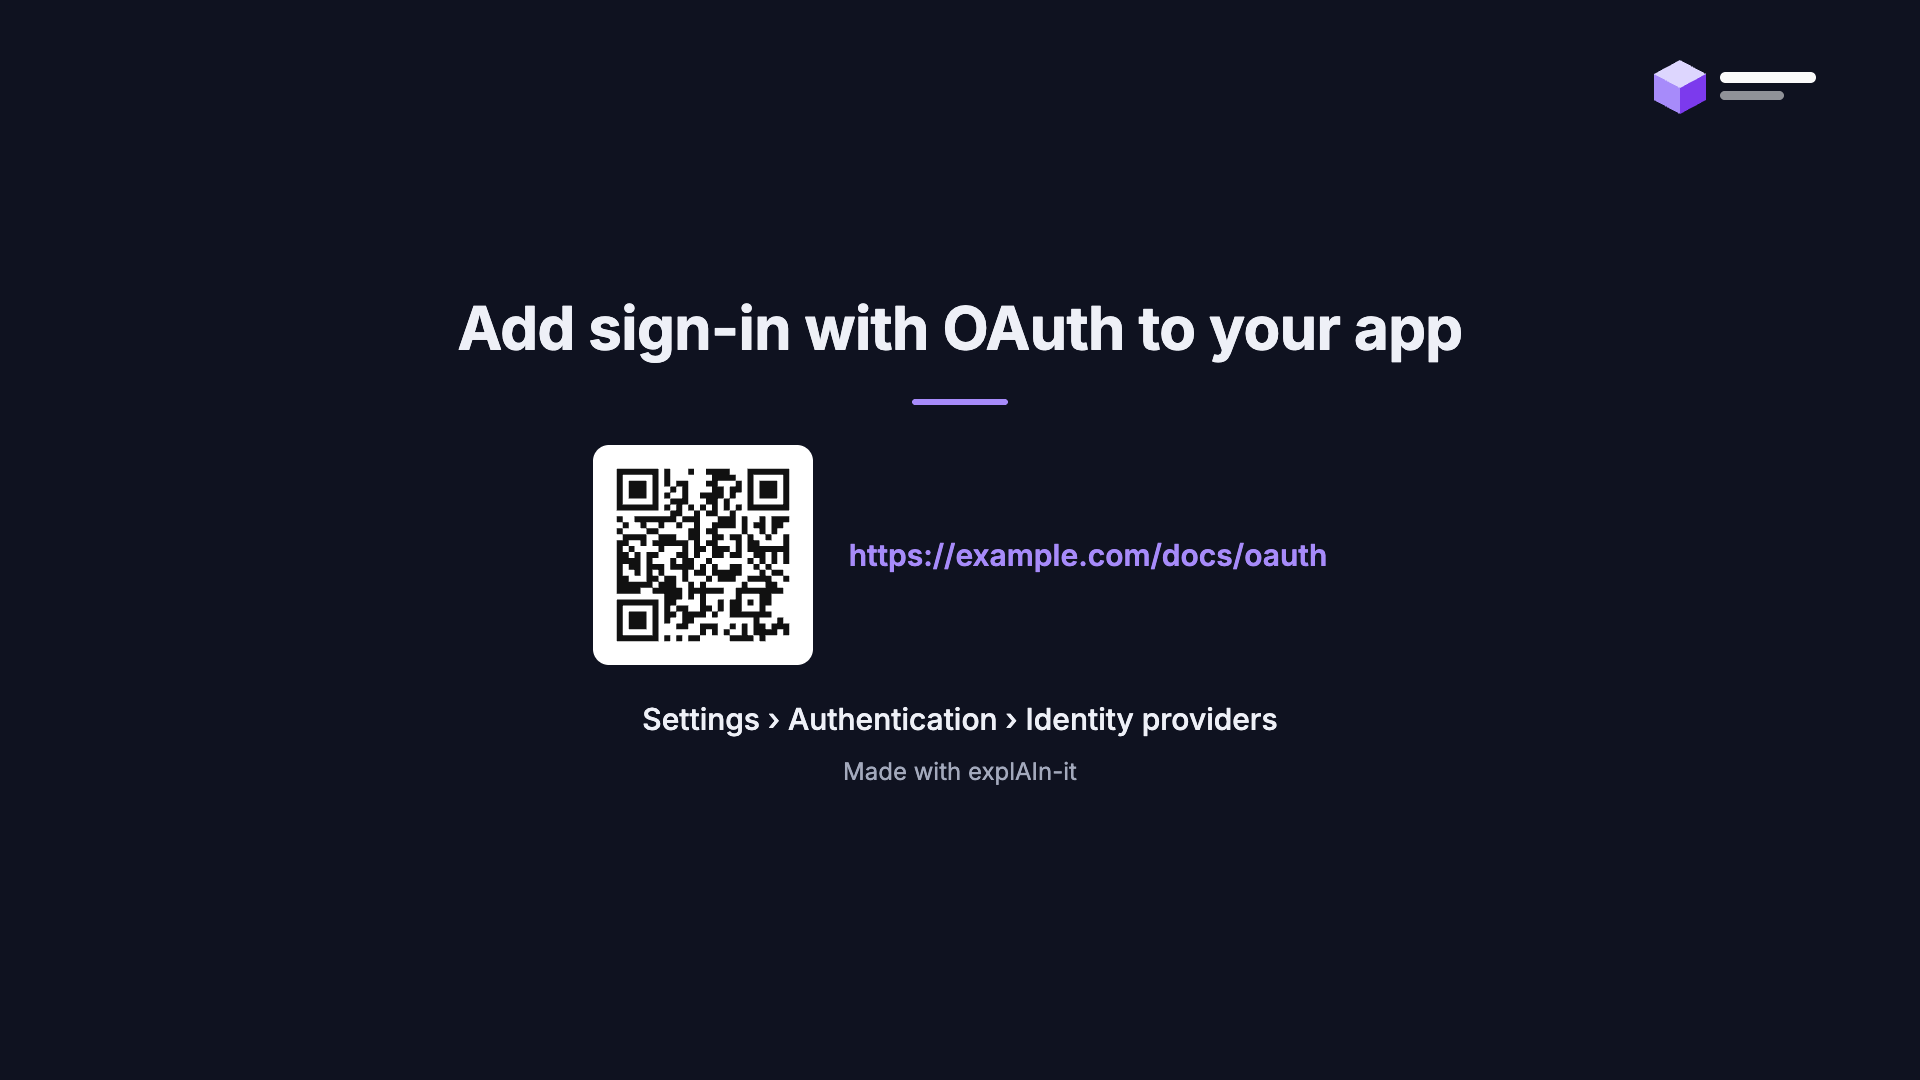
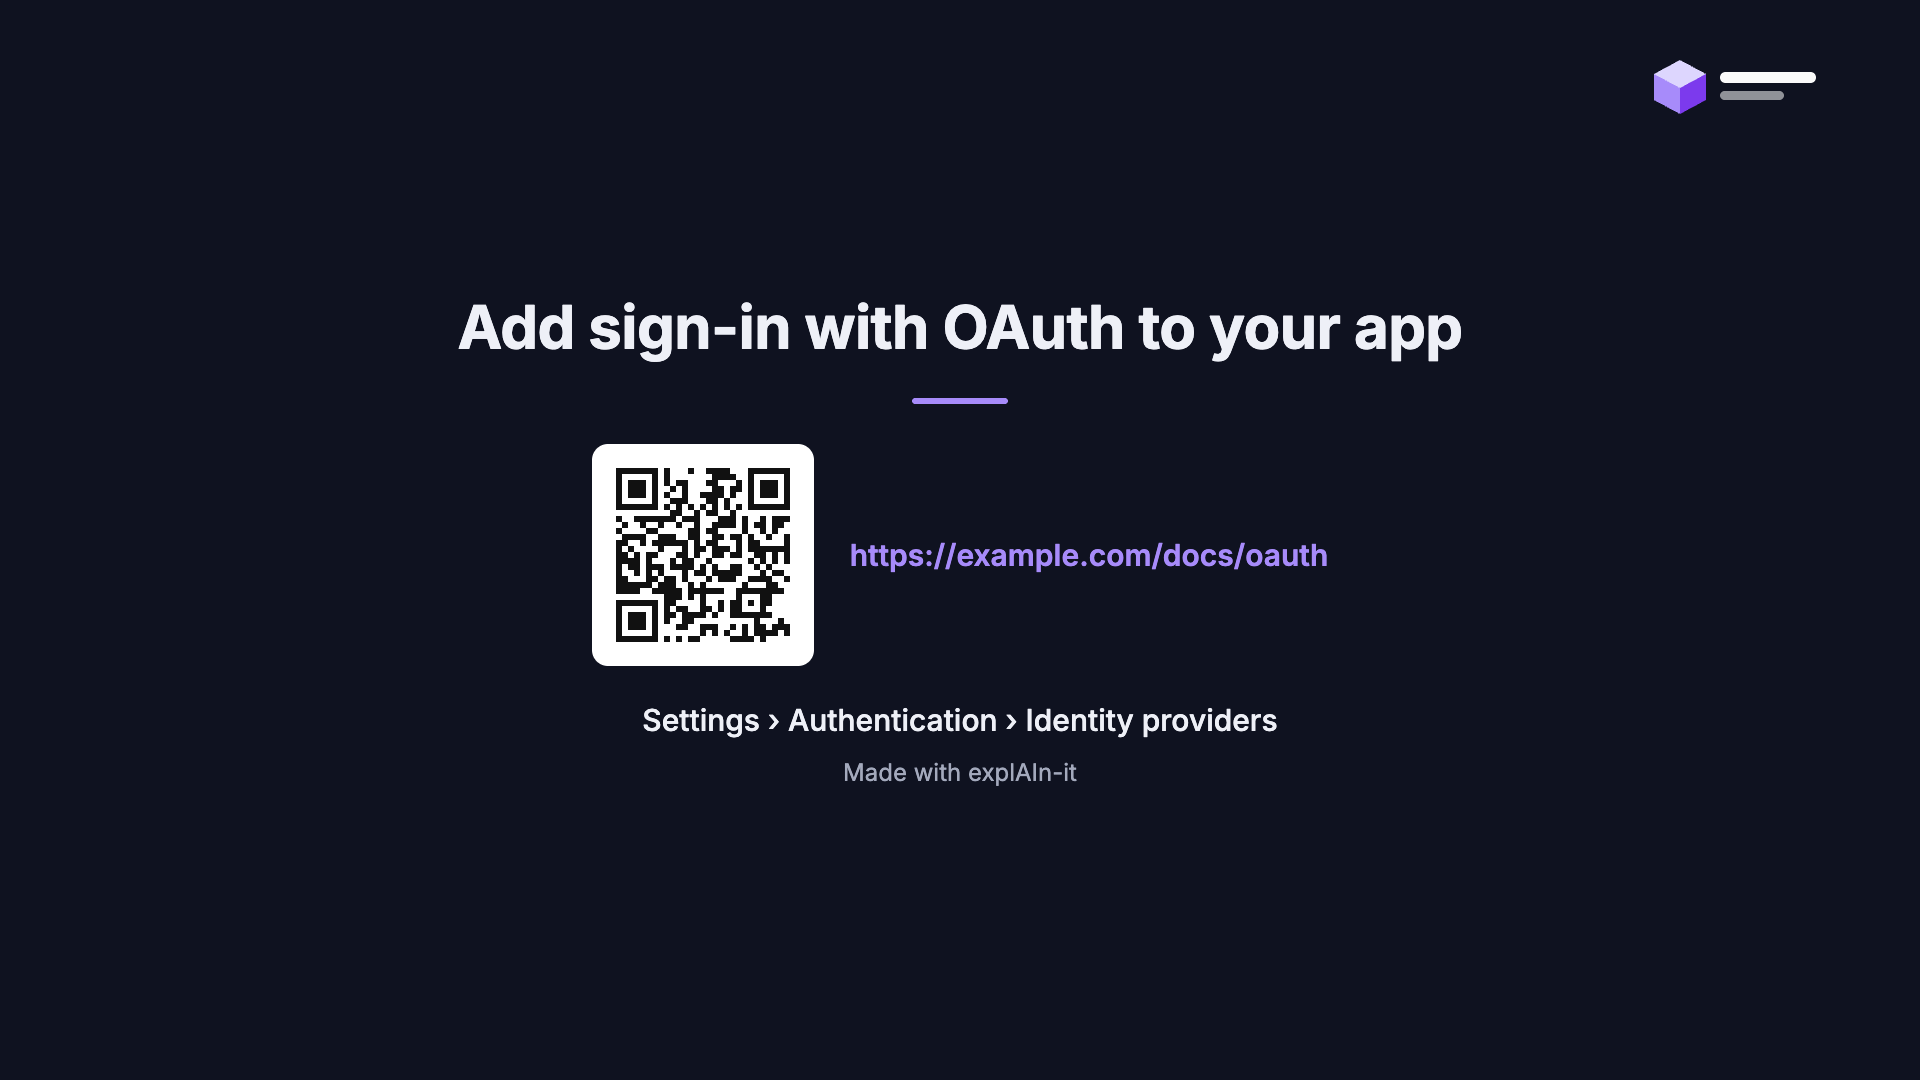
fix(engine): review fixes for end card and ending [1.12]
The opening title card's layer no longer takes the heading's class, which
had pushed it to the top left. The title card closing the video follows
the end card's logo rule. Links are encoded as UTF-8, control characters
are rejected, and the QR code grows with the link so a module stays at
least 4 px at 720p; a 200-character non-ASCII link scans from a 720p
render. MIDDLE_LOGO_SIZE sits beside LOGO_SIZE.

diff --git a/src/engine/cards/html.ts b/src/engine/cards/html.ts
@@ -1,9 +1,9 @@
 import type { EndCard, Logo, TitleCard } from "../../schema/config.ts";
 import { type CardPlan, cardTarget } from "../beats/build.ts";
-import { logoBox } from "../overlays/regions.ts";
+import { logoBox, MIDDLE_LOGO_SIZE } from "../overlays/regions.ts";
 import type { State } from "../timeline.ts";
-import { qrModules, qrPath } from "./qr.ts";
-import { type LogoPlace, logoShowsOn } from "./show.ts";
+import { QR_QUIET, qrModules, qrPath, qrPixels } from "./qr.ts";
+import { logoPlaceOf, logoShowsOn } from "./show.ts";
 
 /** The logo to draw: the image for the current mode, and where and when it shows. */
 export type LogoDrawing = {
@@ -15,11 +15,6 @@ export type LogoDrawing = {
 /** Poses a layer from the timeline. */
 export type Poser = (state: State) => void;
 
-/** The logo in the middle of the closing card is fitted inside this box (SPEC, Logo). */
-export const MIDDLE_LOGO_SIZE = { width: 480, height: 160 } as const;
-
-/** The QR code's quiet zone, in modules: the light margin a reader needs around it. */
-const QR_QUIET = 4;
 const SVG_NS = "http://www.w3.org/2000/svg";
 
 const element = <K extends keyof HTMLElementTagNameMap>(
@@ -70,11 +65,11 @@ const cardLayer = (
   id: CardPlan["id"],
   body: HTMLElement,
   logo: LogoDrawing | undefined,
-  place: LogoPlace,
 ): Poser => {
-  const layer = element("div", `card-layer card-${id}`);
+  const layer = element("div", `card-layer card-layer-${id}`);
   layer.append(body);
-  if (logo && logoShowsOn(logo.show, place)) layer.append(logoImage(logo));
+  if (logo && id !== "logo" && logoShowsOn(logo.show, logoPlaceOf(id)))
+    layer.append(logoImage(logo));
   frame.append(layer);
   return fadeLayer(layer, cardTarget(id));
 };
@@ -93,7 +88,7 @@ export const renderTitleCard = (
   body.append(element("h1", "card-title", card.title), element("div", "card-rule"));
   if (card.description !== undefined)
     body.append(element("p", "card-description", card.description));
-  return cardLayer(frame, id, body, logo, "title");
+  return cardLayer(frame, id, body, logo);
 };
 
 /** The link as a QR code: dark modules on a light tile in both modes, as readers expect. */
@@ -104,6 +99,8 @@ const qrCode = (link: string): SVGSVGElement => {
   svg.setAttribute("class", "card-qr");
   svg.setAttribute("viewBox", `${-QR_QUIET} ${-QR_QUIET} ${size} ${size}`);
   svg.setAttribute("shape-rendering", "crispEdges");
+  const px = `${qrPixels(modules.length)}px`;
+  Object.assign(svg.style, { width: px, height: px });
   const tile = document.createElementNS(SVG_NS, "rect");
   tile.setAttribute("class", "card-qr-tile");
   for (const [name, value] of Object.entries({
@@ -142,7 +139,7 @@ export const renderEndCard = (
   }
   if (card.where !== undefined) body.append(element("p", "card-where", card.where));
   if (card.credit !== undefined) body.append(element("p", "card-credit", card.credit));
-  return cardLayer(frame, "end", body, logo, "end");
+  return cardLayer(frame, "end", body, logo);
 };
 
 /** Draws the closing card made of the logo alone, in the middle, larger than in its corner. */
@@ -152,7 +149,7 @@ export const renderLogoCard = (frame: HTMLElement, src: string): Poser => {
     width: `${MIDDLE_LOGO_SIZE.width}px`,
     height: `${MIDDLE_LOGO_SIZE.height}px`,
   });
-  const layer = element("div", "card-layer card-logo");
+  const layer = element("div", "card-layer card-layer-logo");
   layer.append(img);
   frame.append(layer);
   return fadeLayer(layer, cardTarget("logo"));

diff --git a/src/engine/cards/qr.test.ts b/src/engine/cards/qr.test.ts
@@ -1,6 +1,6 @@
 import jsqr from "jsqr";
 import { describe, expect, it } from "vitest";
-import { qrModules, qrPath } from "./qr.ts";
+import { QR_QUIET, qrModules, qrPath, qrPixels } from "./qr.ts";
 
 /** Draws the modules as black squares on white, with the 4-module quiet zone a reader needs. */
 const pixels = (modules: readonly (readonly boolean[])[], scale = 4) => {
@@ -34,6 +34,7 @@ describe("qrModules", () => {
     for (const link of [
       "https://example.com",
       "https://example.com/docs/oauth?from=video#sign-in",
+      "https://example.com/über/straße",
       `https://example.com/${"long-path/".repeat(18)}`,
     ]) {
       const modules = qrModules(link);
@@ -47,6 +48,21 @@ describe("qrModules", () => {
     const modules = qrModules("https://example.com");
     expect(modules.every((row) => row.length === modules.length)).toBe(true);
     expect(qrModules("https://example.com")).toEqual(modules);
+  });
+});
+
+describe("qrPixels", () => {
+  it("keeps every module at least 4 px at 720p, even for the longest link", () => {
+    const longest = `https://example.com/${"x".repeat(200 - 20)}`;
+    for (const link of ["https://example.com", longest]) {
+      const modules = qrModules(link);
+      const perModuleAt720p =
+        (qrPixels(modules.length) / (modules.length + 2 * QR_QUIET)) * (2 / 3);
+      expect(perModuleAt720p).toBeGreaterThanOrEqual(4);
+      // And the code reads back when drawn that small.
+      const { data, size } = pixels(modules, Math.floor(perModuleAt720p));
+      expect(jsqr.default(data, size, size)?.data).toBe(link);
+    }
   });
 });
 

diff --git a/src/engine/cards/qr.ts b/src/engine/cards/qr.ts
@@ -1,5 +1,16 @@
 import qrcode from "qrcode-generator";
 
+/** The light margin around the code, in modules, that a reader needs. */
+export const QR_QUIET = 4;
+/** Pixels per module at 1080p: 4 px after scaling to 720p, which readers manage off a screen. */
+const MODULE_PX = 6;
+/** The smallest the code is drawn, in pixels at 1080p, so a short link still stands out. */
+const MIN_PX = 220;
+
+/** How wide the code is drawn at 1080p, quiet zone included: larger for longer links. */
+export const qrPixels = (moduleCount: number): number =>
+  Math.max(MIN_PX, (moduleCount + 2 * QR_QUIET) * MODULE_PX);
+
 /**
  * A link as a QR code's modules, row by row; `true` is dark. The version is
  * the smallest that fits, with error correction level M (15% damage), which
@@ -7,7 +18,8 @@ import qrcode from "qrcode-generator";
  */
 export const qrModules = (text: string): boolean[][] => {
   const code = qrcode(0, "M");
-  code.addData(text, "Byte");
+  // The library turns each character into one byte; give it the UTF-8 bytes so readers decode non-ASCII links.
+  code.addData(String.fromCharCode(...new TextEncoder().encode(text)), "Byte");
   code.make();
   const size = code.getModuleCount();
   return Array.from({ length: size }, (_, row) =>

diff --git a/src/engine/beats/build.ts b/src/engine/beats/build.ts
@@ -367,6 +367,7 @@ const textHold = (lines: readonly (string | undefined)[]): number =>
   );
 
 const titleText = (card: TitleCard) => [card.title, card.description];
+const endText = (card: EndCard) => [card.headline, card.link, card.where, card.credit];
 
 /** The card that closes the video and how long it holds (SPEC, Opening and ending). */
 const closingCard = ({
@@ -374,11 +375,7 @@ const closingCard = ({
   endCard,
   logo,
 }: BuildOptions): { id: CardPlan["id"]; hold: number } | undefined => {
-  if (endCard)
-    return {
-      id: "end",
-      hold: textHold([endCard.headline, endCard.link, endCard.where, endCard.credit]),
-    };
+  if (endCard) return { id: "end", hold: textHold(endText(endCard)) };
   if (titleCard) return { id: "title-again", hold: textHold(titleText(titleCard)) };
   if (logo) return { id: "logo", hold: CARD_MIN_HOLD };
   return undefined;

diff --git a/src/engine/cards/show.test.ts b/src/engine/cards/show.test.ts
@@ -1,5 +1,5 @@
 import { describe, expect, it } from "vitest";
-import { logoShowsOn } from "./show.ts";
+import { logoPlaceOf, logoShowsOn } from "./show.ts";
 
 describe("logoShowsOn", () => {
   it("draws the logo on the cards that `show` names, or on every frame", () => {
@@ -9,5 +9,11 @@ describe("logoShowsOn", () => {
     expect(where("end")).toEqual(["end"]);
     expect(where("both")).toEqual(["title", "end"]);
     expect(where("all")).toEqual(["frames"]);
+  });
+
+  it("treats the title card closing the video as the end card", () => {
+    expect(logoPlaceOf("title")).toBe("title");
+    expect(logoPlaceOf("title-again")).toBe("end");
+    expect(logoPlaceOf("end")).toBe("end");
   });
 });

diff --git a/dev/iso.ts b/dev/iso.ts
@@ -47,9 +47,10 @@ const cards: Config["cards"] =
       : cardsParam === "end"
         ? { ...(end ? { end } : {}) }
         : example.cards;
-const { logo: _, cards: __, ...rest } = example;
+// Start from the example without its logo and cards, then add back what the URL keeps.
+const { logo: _exampleLogo, cards: _exampleCards, ...exampleStyle } = example;
 const config: Config = {
-  ...rest,
+  ...exampleStyle,
   ...(logoConfig ? { logo: logoConfig } : {}),
   ...(cards ? { cards } : {}),
   theme: { ...example.theme, palette: params.get("palette") ?? example.theme.palette },

diff --git a/src/engine/cards/show.ts b/src/engine/cards/show.ts
@@ -10,6 +10,10 @@ const PLACES: Readonly<Record<Logo["show"], readonly LogoPlace[]>> = {
   all: ["frames"],
 };
 
+/** Where a card's logo goes: the title card closing the video stands in for the end card. */
+export const logoPlaceOf = (card: "title" | "title-again" | "end"): LogoPlace =>
+  card === "title" ? "title" : "end";
+
 /** Whether `show` puts the logo in `place` (SPEC, Logo). A logo on every frame is not drawn again on a card. */
 export const logoShowsOn = (show: Logo["show"], place: LogoPlace): boolean =>
   PLACES[show].includes(place);

diff --git a/src/schema/config.test.ts b/src/schema/config.test.ts
@@ -112,6 +112,9 @@ describe("parseConfig", () => {
     expect(errorsFor({ cards: { end: { headline: "Hi", link: "ftp://example.com" } } })).toEqual([
       "cards.end.link: must be an http or https URL",
     ]);
+    expect(
+      errorsFor({ cards: { end: { headline: "Hi", link: "https://exa\u0000mple.com" } } }),
+    ).toEqual(["cards.end.link: must be an http or https URL"]);
     expect(errorsFor({ cards: { end: { link: "https://example.com" } } })).toEqual([
       "cards.end.headline: required",
     ]);

diff --git a/src/engine/overlays/regions.ts b/src/engine/overlays/regions.ts
@@ -49,6 +49,8 @@ const TITLE_PADDING = 10;
 
 /** The logo is fitted inside this box at 1080p, keeping its aspect ratio (SPEC, Logo). */
 export const LOGO_SIZE = { width: 200, height: 64 } as const;
+/** The logo alone as the closing card is fitted inside this box, in the middle (SPEC, Logo). */
+export const MIDDLE_LOGO_SIZE = { width: 480, height: 160 } as const;
 
 const safeArea = (): Rect => {
   const mx = STAGE.width * SAFE_MARGIN;

diff --git a/src/schema/config.ts b/src/schema/config.ts
@@ -112,7 +112,7 @@ export const EndCardSchema = z
     link: z
       .string()
       .max(CARD_LIMITS.link)
-      .regex(/^https?:\/\/[^\s/?#]+[^\s]*$/, { error: "must be an http or https URL" })
+      .regex(/^https?:\/\/[^\s\p{Cc}/?#]+[^\s\p{Cc}]*$/u, { error: "must be an http or https URL" })
       .optional()
       .describe("Also drawn as a QR code, since nobody can click a link in a video."),
     where: z

diff --git a/src/engine/stage.css b/src/engine/stage.css
@@ -339,10 +339,9 @@ body {
   margin: 40px auto 0;
 }
 
+/* Its size comes from qrPixels, larger for longer links. */
 .card-qr {
   flex: none;
-  width: 220px;
-  height: 220px;
   border-radius: 16px;
   overflow: hidden;
 }
@@ -376,10 +375,6 @@ body {
   margin: 20px auto 0;
   font-size: 24px;
   color: var(--muted);
-}
-
-.card-logo {
-  background: var(--bg);
 }
 
 .logo-middle {

diff --git a/SPEC.md b/SPEC.md
@@ -163,7 +163,8 @@ type Config = {
     light?: string;                     // a file name in assets/ (no folders) ending in lower-case .png, .jpg, .jpeg or .svg, at most 2 MB;
     dark?: string;                      // at least one of the two; one serves both modes
     corner?: "top-right" | "bottom-right";              // default "top-right"
-    show?: "start" | "end" | "both" | "all";            // the title card, the end card, both (default), or every frame
+    show?: "start" | "end" | "both" | "all";            // the title card, the end card, both (default), or every frame;
+                                                        // the title card closing the video counts as the end card
   };
 };
 
@@ -252,7 +253,9 @@ for frame capture, so what the user approves is what gets rendered.
   card closes it, set in `config.json` (see Config). The title card shows
   the title in the middle with the description under it. The end card
   shows the headline, then the link with its QR code beside it, then where
-  to find the feature and the credit. Only the title and the headline are
+  to find the feature and the credit. The QR code is dark on a light tile
+  in both modes, encodes the link as UTF-8, and grows with the link so a
+  module stays at least 4 px at 720p. Only the title and the headline are
   required; every other line, and the logo, can be left out. Text wraps, to
   at most three lines for a title, headline or description. Cards have no
   step or narration caption.
